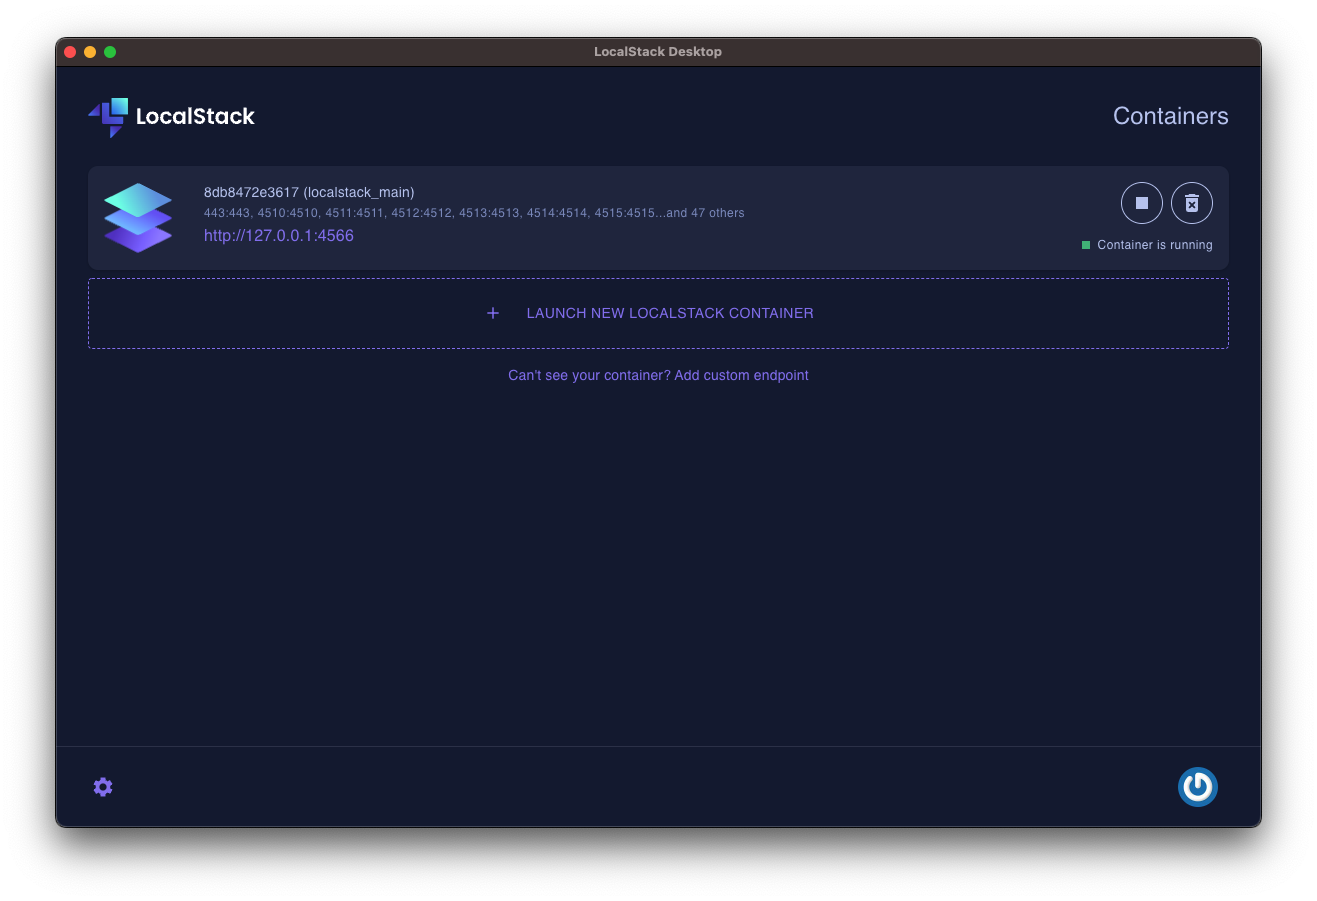
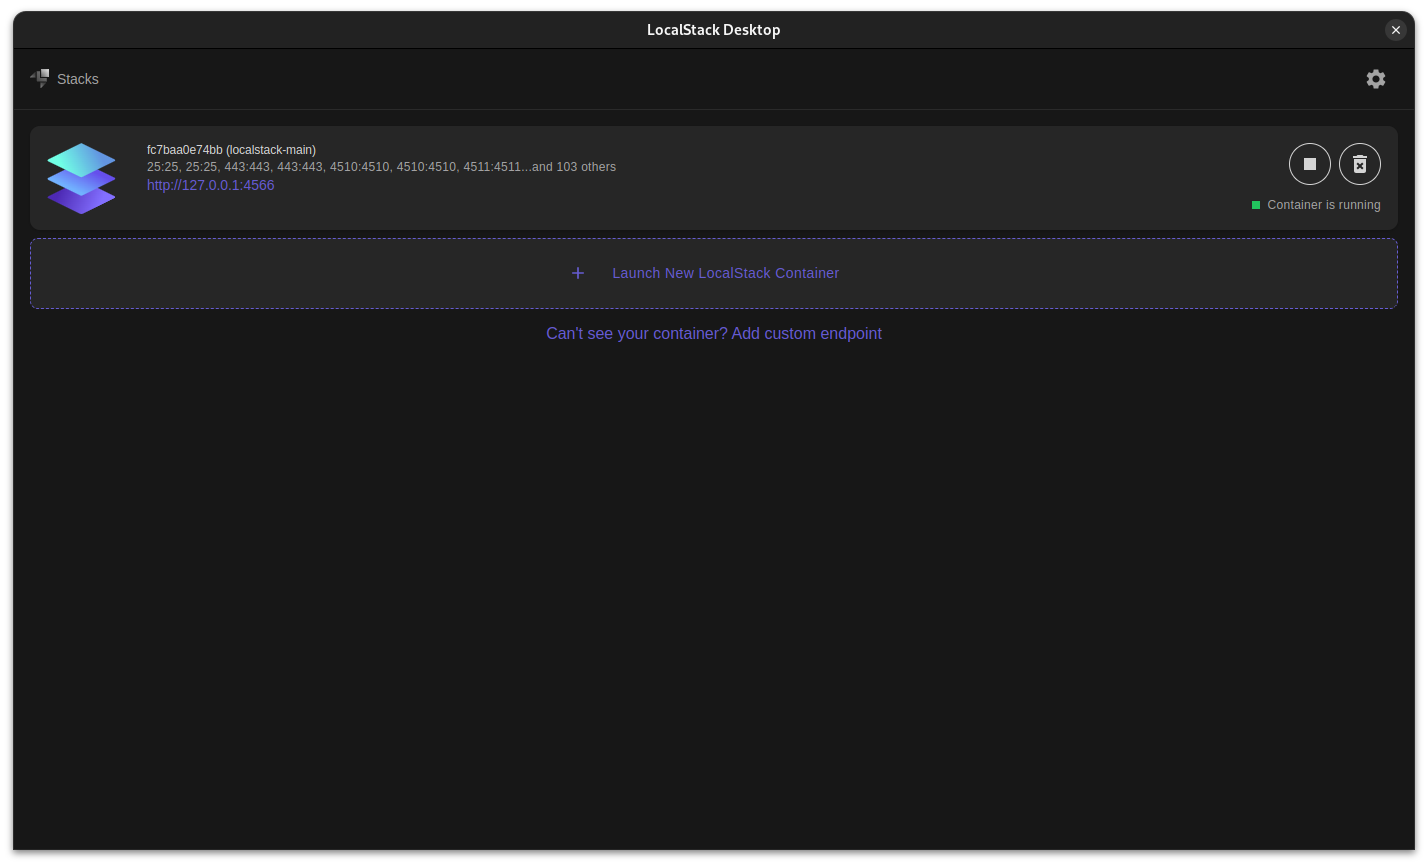
Updated readme

Changed region(s): [[0.0, 0.0, 0.9962, 0.9977], [0.3736, 0.3118, 0.6226, 0.4365]]

diff --git a/README.md b/README.md
@@ -20,5 +20,5 @@ Currently, our desktop application supports the following features
   ![Terminal](.github/images/terminal.png)
 - **LocalStack insights**: Check the log information of your LocalStack instance 
   ![Logs](.github/images/logs.png)
-- **Resource browser**: Use the LocalStack Resource Browser to view, manage, and deploy AWS resources similar to the AWS Management Console
-  ![Resource Browser](.github/images/resourceBrowser.png)
+- **LocalStack console**: Use features from the Web App to view and manage resources, perform chaos experiments and see policies for you aws requests 
+  ![Resource Browser](.github/images/resource-browser.png)
